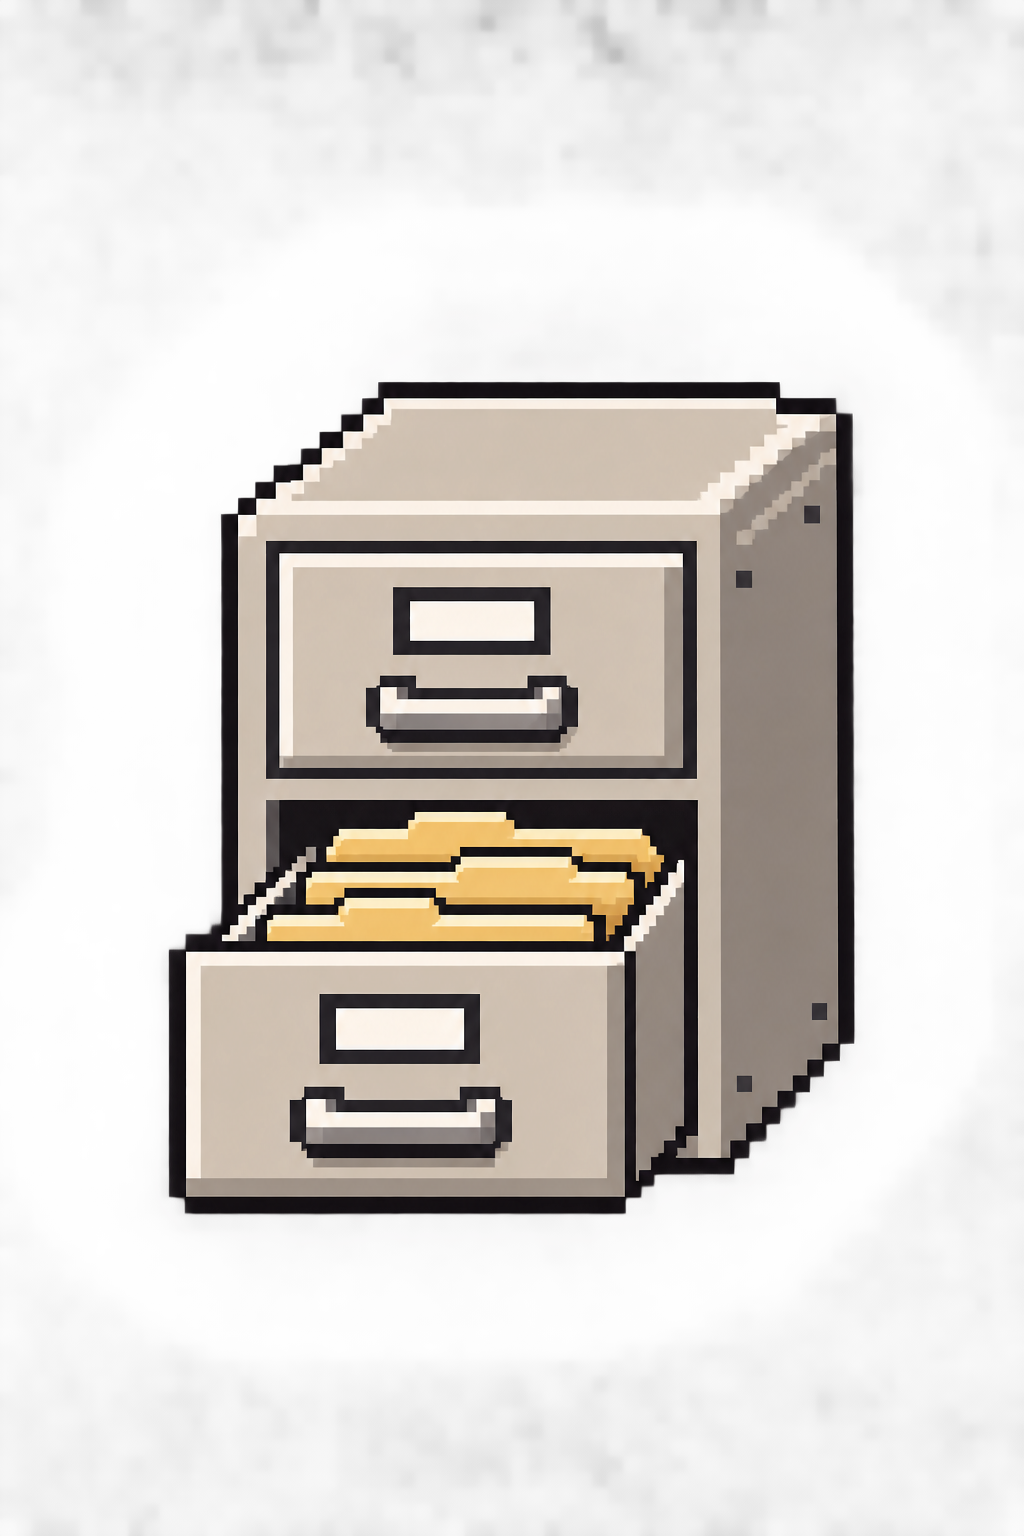
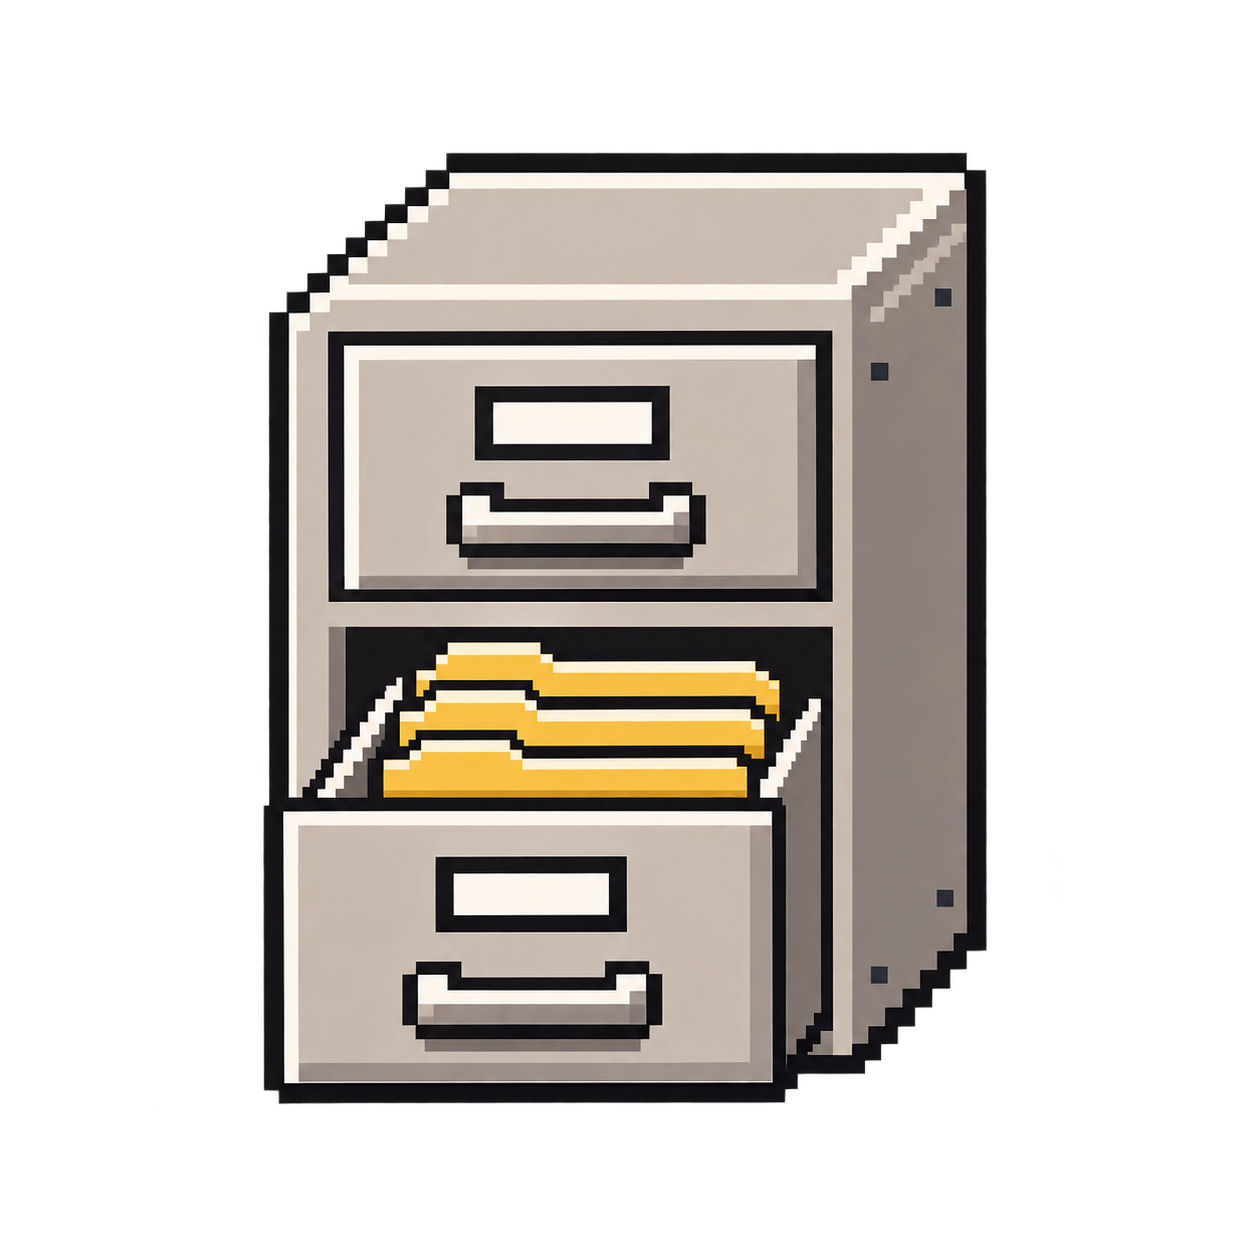
Clarify web transfer sign-in and update Flip artwork

diff --git a/projects/ROCKNIX/packages/network/simple-http-server/web/index.html b/projects/ROCKNIX/packages/network/simple-http-server/web/index.html
@@ -14,11 +14,12 @@
     header p,.note{color:var(--muted)}.grid{display:grid;grid-template-columns:repeat(auto-fit,minmax(210px,1fr));gap:16px}
     a.card{min-height:118px;padding:22px;text-decoration:none;color:var(--ink);background:linear-gradient(var(--panel),var(--panel)) padding-box,linear-gradient(135deg,var(--cyan),var(--violet),var(--pink)) border-box;border:2px solid transparent;border-radius:16px;box-shadow:0 12px 30px #0008;transition:.15s}
     a.card:hover,a.card:focus{transform:translateY(-3px);box-shadow:0 0 24px #10d9ff55;outline:none}.icon{font-size:28px}.card strong{display:block;font-size:20px;margin:8px 0 3px}.card span{color:var(--muted);font-size:14px}
-    .signin{margin:28px auto 0;padding:20px 24px;max-width:720px;background:#080c1ce8;border:1px solid #405078;border-left:4px solid var(--pink);border-radius:10px;line-height:1.55;box-shadow:0 12px 28px #0007}.signin h2{margin:0 0 10px;font-size:21px;color:#fff}.signin ol{margin:8px 0;padding-left:22px}.signin li{margin:7px 0}.signin code{padding:2px 7px;background:#171e3c;border-radius:5px;color:#35dcff;font:600 15px ui-monospace,monospace}.note{margin:16px auto 0;padding:13px 18px;max-width:720px;background:#080c1cdd;border-left:4px solid var(--violet);border-radius:8px;line-height:1.5;color:var(--muted)}
+    .signin{margin:28px auto 0;padding:20px 24px;max-width:720px;background:#080c1ce8;border:1px solid #405078;border-left:4px solid var(--pink);border-radius:10px;line-height:1.55;box-shadow:0 12px 28px #0007}.signin h2{margin:0 0 10px;font-size:21px;color:#fff}.signin ol{margin:8px 0;padding-left:22px}.signin li{margin:7px 0}.signin code{padding:2px 7px;background:#171e3c;border-radius:5px;color:#35dcff;font:600 15px ui-monospace,monospace}.note{margin:16px auto;padding:13px 18px;max-width:720px;background:#080c1cdd;border-left:4px solid var(--violet);border-radius:8px;line-height:1.5;color:var(--muted)}
   </style>
 </head>
 <body><main>
   <header><img class="mark" src="butterfly.png?v=3" alt=""><h1>ButterflyOS</h1><p>Move files to and from your handheld</p></header>
+  <p class="note"><b>Browser sign-in</b><br>Username <code>root</code> · Password: your Flip’s device password. Your browser may ask after you open a folder.</p>
   <section class="grid">
     <a class="card" data-path="roms/"><span class="icon">🎮</span><strong>Games</strong><span>Add ROMs to their system folders</span></a>
     <a class="card" data-path="games-external/roms/"><span class="icon">▤</span><strong>Second Game Card</strong><span>Manage files stored in the second SD slot</span></a>
@@ -29,14 +30,12 @@
     <a class="card" data-path=""><span class="icon">▦</span><strong>All Storage</strong><span>Browse the complete storage partition</span></a>
   </section>
   <section class="signin">
-    <h2>How to sign in</h2>
+    <h2>Set up Web File Transfer on your Flip</h2>
     <ol>
-      <li>On your ButterflyOS device, open <b>Settings</b>, then <b>Network Settings</b>.</li>
-      <li>Select <b>Set SSH Password</b>. Enter a password you will remember and save it.</li>
-      <li>Turn on <b>Web File Transfer</b>.</li>
-      <li>When your browser asks, enter <code>root</code> as the username and your new password as the password.</li>
+      <li>Connect your Flip and the computer or phone to the same local network.</li>
+      <li>On the Flip, open <b>Tools → Web File Transfer</b>. Choose <b>Set or Change Device Password</b> if you need to set one.</li>
+      <li>Turn on <b>Web File Transfer</b> and enter the displayed <b>Web Address</b> in your browser. On older builds, use <b>Settings → Network Settings</b> and <b>Set SSH Password</b>.</li>
     </ol>
-    <p><b>What is root?</b> It is the built-in administrator account name used by ButterflyOS. You do not need to create a separate account.</p>
   </section>
   <p class="note">Choose a folder, then use the upload control on that page. Games uploads use the OS card; Second Game Card writes directly to the card in the second slot. Run Update Gamelists after adding files. For your security, enable Web File Transfer only on a trusted local network.</p>
 </main><script>

diff --git a/documentation/TRANSFERRING_GAMES.md b/documentation/TRANSFERRING_GAMES.md
@@ -37,22 +37,22 @@ are identical, the OS-card copy takes precedence.
 
 ## Option 1: Web File Transfer
 
-1. Open **Settings → Network Settings** and enable Wi-Fi.
-2. Choose **Select Wi-Fi Network**, select your network, and enter its password.
-   Submit using the keyboard's on-screen Enter button; B cancels/backtracks.
-3. Choose **Set SSH Password**, enter a device password, and submit it with
-   on-screen Enter. This is a separate password from your Wi-Fi password.
-4. Enable **Web File Transfer**. Open its displayed web address on a computer
-   or phone connected to the same local network.
-5. When asked to log in, the account name is `root`; the password is the device
-   password you just set. “Root” is the device's administrator account.
-6. Choose **Games**, open the appropriate system folder, and upload your files.
-   **Second Game Card** writes to the second card instead. **Music**, **Videos**,
-   and **BIOS** select the corresponding OS-card folders.
-7. Refresh the library after uploads finish.
+1. Connect your Flip and your computer or phone to the same local network.
+   On the Flip, use **Settings → Network Settings** to connect to Wi-Fi.
+2. Open **Tools → Web File Transfer**. If you haven’t set a device password,
+   choose **Set or Change Device Password** and submit it with the on-screen Enter key.
+3. Turn on **Web File Transfer**. On your computer or phone, enter the
+   displayed **Web Address** in your browser, including `http://`.
+4. Choose **Games** for the OS card or **Second Game Card** for the extra SD card.
+   When the browser asks you to sign in, enter **`root`** as the username and your
+   **device password** as the password.
+5. Open the folder for your game system and use the page’s upload control.
+   After your uploads finish, choose **Update Gamelists** on the Flip.
 
-You do not need to enable SSH just to use the web interface. Enable file-transfer
-services only on a trusted network; do not forward their ports to the internet.
+On older releases, use **Settings → Network Settings** for **Set SSH Password**
+and **Web File Transfer**. The device password is shared with SSH, and Web File
+Transfer works with SSH off. When you’re done transferring files, turn Web File
+Transfer off from the same menu.
 
 ## Option 2: Remove the SD card and copy with a computer
 

diff --git a/documentation/QUICK_START.md b/documentation/QUICK_START.md
@@ -190,10 +190,12 @@ Open **Settings → Network Settings**, enable Wi-Fi, choose **Select Wi-Fi Netw
 and enter the network password. Submit with the keyboard's on-screen Enter
 button; B is a back/cancel control, not a substitute for submitting the value.
 
-Choose **Set SSH Password** and submit the new device password before enabling
-SSH or Web File Transfer. In Web File Transfer, open the displayed web address
-on another device on the same network. The login name is `root` and the
-password is the one you set; do not assume a development test password.
+Open **Tools → Web File Transfer** to set a device password, turn on file
+transfer, and find the web address. Enter that address on another device on
+the same network. Sign in as **`root`** with your device password.
+On older builds, use **Settings → Network Settings**. See the
+[web transfer walkthrough](TRANSFERRING_GAMES.md#option-1-web-file-transfer)
+for upload steps.
 
 For SSH, use `ssh root@<device-IP>` with the IP shown in Network Settings.
 The default hostname is `butterflyos`; two Flips can share that default, so use
